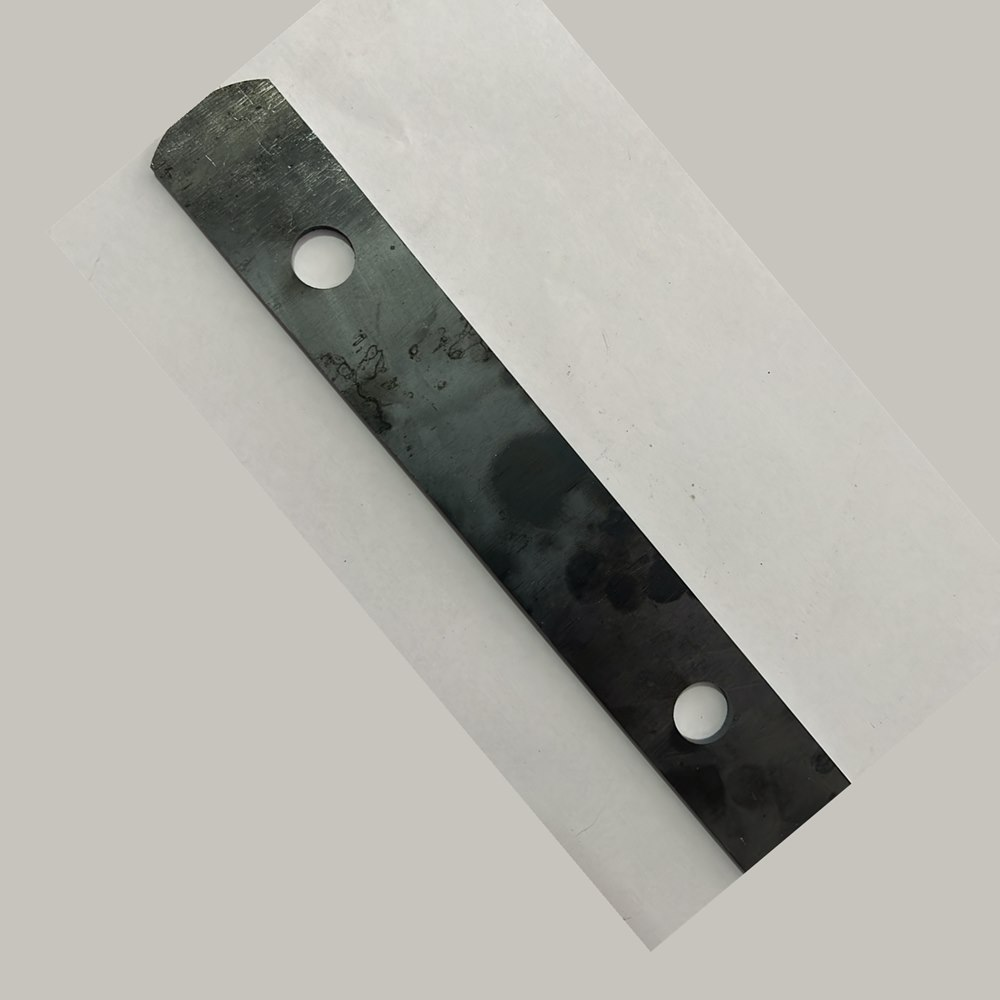
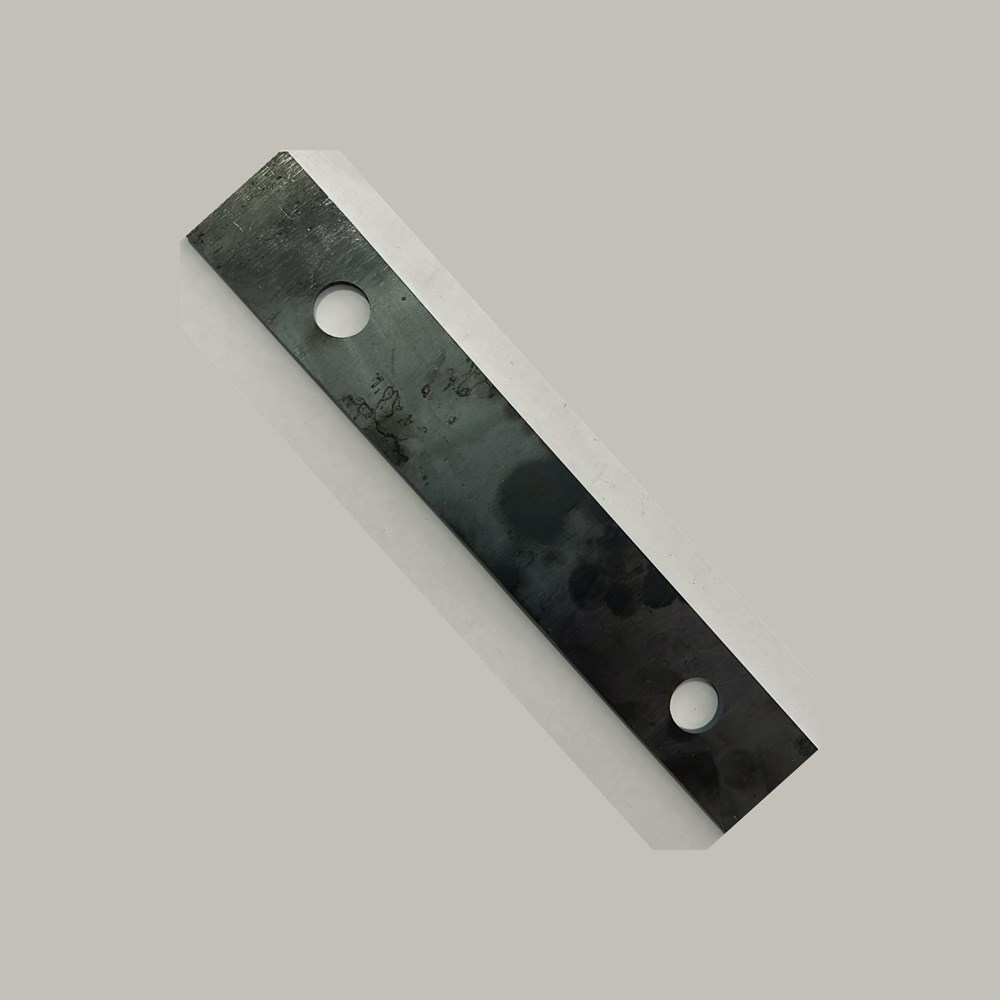
Enquadramento das pecas e ficha sem "acabamento"
O card recorta a origem quadrada em 4/3 (vitrine) e 5/4 (catalogo no
celular), tirando 12,5% e 10% de cima e de baixo. As pecas estavam
inteiras no arquivo e cortadas no site. Todas as fotos foram refeitas
com 15% de folga vertical.

- ficha do catalogo passa a mostrar SAE 1045 . TEMPERADO numa linha so:
  o tempero e caracteristica do aco, nao um acabamento
- pino 4.0 e pino conico 3.2 estavam com as imagens trocadas
- cunha padrao vinha de uma foto com a ponta fora do quadro na origem
- faqueta P10 plus, P10 alum, P10 coreana e DW33 reenquadradas

diff --git a/index.html b/index.html
@@ -153,92 +153,92 @@
 
     <div class="fam">
       <article class="fam__c reveal">
-        <span class="fam__img"><img src="assets/img/prod/pinos.jpg" alt="Pino 4.0 de laje em aço SAE 1045 temperado" width="620" height="620" loading="lazy" decoding="async"></span>
-        <span class="fam__b"><h3>Pino 4.0 (pino de laje)</h3><span class="ficha"><span><i>Material</i>SAE 1045</span><span><i>Acabamento</i>Temperado</span></span></span>
+        <span class="fam__img"><img src="assets/img/prod/pino-40.jpg" alt="Pino 4.0 de laje em aço SAE 1045 temperado" width="620" height="620" loading="lazy" decoding="async"></span>
+        <span class="fam__b"><h3>Pino 4.0 (pino de laje)</h3><span class="ficha"><span class="ficha__e">SAE 1045 <i>·</i> Temperado</span></span></span>
         <a class="fam__go" href="https://wa.me/5511932408652?text=Ol%C3%A1!%20Vim%20pelo%20site%20e%20gostaria%20de%20um%20or%C3%A7amento%20para%20*Pino%204.0%20(pino%20de%20laje)*." target="_blank" rel="noopener">Orçamento <svg viewBox="0 0 24 24" aria-hidden="true"><path d="M5 12h13m-5-5 5 5-5 5"/></svg></a>
       </article>
 
       <article class="fam__c reveal">
         <span class="fam__img"><img src="assets/img/prod/pino-conico.jpg" alt="Pino cônico 3.2 em aço SAE 1045 temperado" width="620" height="620" loading="lazy" decoding="async"></span>
-        <span class="fam__b"><h3>Pino cônico 3.2</h3><span class="ficha"><span><i>Material</i>SAE 1045</span><span><i>Acabamento</i>Temperado</span></span></span>
+        <span class="fam__b"><h3>Pino cônico 3.2</h3><span class="ficha"><span class="ficha__e">SAE 1045 <i>·</i> Temperado</span></span></span>
         <a class="fam__go" href="https://wa.me/5511932408652?text=Ol%C3%A1!%20Vim%20pelo%20site%20e%20gostaria%20de%20um%20or%C3%A7amento%20para%20*Pino%20c%C3%B4nico%203.2*." target="_blank" rel="noopener">Orçamento <svg viewBox="0 0 24 24" aria-hidden="true"><path d="M5 12h13m-5-5 5 5-5 5"/></svg></a>
       </article>
 
       <article class="fam__c reveal">
         <span class="fam__img"><img src="assets/img/prod/pino-roscado.jpg" alt="Pino roscado em aço SAE 1045 temperado" width="620" height="620" loading="lazy" decoding="async"></span>
-        <span class="fam__b"><h3>Pino roscado</h3><span class="ficha"><span><i>Material</i>SAE 1045</span><span><i>Acabamento</i>Temperado</span></span></span>
+        <span class="fam__b"><h3>Pino roscado</h3><span class="ficha"><span class="ficha__e">SAE 1045 <i>·</i> Temperado</span></span></span>
         <a class="fam__go" href="https://wa.me/5511932408652?text=Ol%C3%A1!%20Vim%20pelo%20site%20e%20gostaria%20de%20um%20or%C3%A7amento%20para%20*Pino%20roscado*." target="_blank" rel="noopener">Orçamento <svg viewBox="0 0 24 24" aria-hidden="true"><path d="M5 12h13m-5-5 5 5-5 5"/></svg></a>
       </article>
 
       <article class="fam__c reveal">
         <span class="fam__img"><img src="assets/img/prod/cunhas.jpg" alt="Cunha padrão em aço SAE 1045 temperado" width="620" height="620" loading="lazy" decoding="async"></span>
-        <span class="fam__b"><h3>Cunha padrão</h3><span class="ficha"><span><i>Material</i>SAE 1045</span><span><i>Acabamento</i>Temperado</span></span></span>
+        <span class="fam__b"><h3>Cunha padrão</h3><span class="ficha"><span class="ficha__e">SAE 1045 <i>·</i> Temperado</span></span></span>
         <a class="fam__go" href="https://wa.me/5511932408652?text=Ol%C3%A1!%20Vim%20pelo%20site%20e%20gostaria%20de%20um%20or%C3%A7amento%20para%20*Cunha%20padr%C3%A3o*." target="_blank" rel="noopener">Orçamento <svg viewBox="0 0 24 24" aria-hidden="true"><path d="M5 12h13m-5-5 5 5-5 5"/></svg></a>
       </article>
 
       <article class="fam__c reveal">
         <span class="fam__img"><img src="assets/img/prod/cunha-fina.jpg" alt="Cunha fina em aço SAE 1045 temperado" width="620" height="620" loading="lazy" decoding="async"></span>
-        <span class="fam__b"><h3>Cunha fina</h3><span class="ficha"><span><i>Material</i>SAE 1045</span><span><i>Acabamento</i>Temperado</span></span></span>
+        <span class="fam__b"><h3>Cunha fina</h3><span class="ficha"><span class="ficha__e">SAE 1045 <i>·</i> Temperado</span></span></span>
         <a class="fam__go" href="https://wa.me/5511932408652?text=Ol%C3%A1!%20Vim%20pelo%20site%20e%20gostaria%20de%20um%20or%C3%A7amento%20para%20*Cunha%20fina*." target="_blank" rel="noopener">Orçamento <svg viewBox="0 0 24 24" aria-hidden="true"><path d="M5 12h13m-5-5 5 5-5 5"/></svg></a>
       </article>
 
       <article class="fam__c reveal">
         <span class="fam__img"><img src="assets/img/prod/cunha-coreana.jpg" alt="Cunha coreana em aço SAE 1045 temperado" width="620" height="620" loading="lazy" decoding="async"></span>
-        <span class="fam__b"><h3>Cunha coreana</h3><span class="ficha"><span><i>Material</i>SAE 1045</span><span><i>Acabamento</i>Temperado</span></span></span>
+        <span class="fam__b"><h3>Cunha coreana</h3><span class="ficha"><span class="ficha__e">SAE 1045 <i>·</i> Temperado</span></span></span>
         <a class="fam__go" href="https://wa.me/5511932408652?text=Ol%C3%A1!%20Vim%20pelo%20site%20e%20gostaria%20de%20um%20or%C3%A7amento%20para%20*Cunha%20coreana*." target="_blank" rel="noopener">Orçamento <svg viewBox="0 0 24 24" aria-hidden="true"><path d="M5 12h13m-5-5 5 5-5 5"/></svg></a>
       </article>
 
       <article class="fam__c reveal">
         <span class="fam__img"><img src="assets/img/prod/faquetas.jpg" alt="Faqueta em aço carbono temperado, com dois furos" width="620" height="620" loading="lazy" decoding="async"></span>
-        <span class="fam__b"><h3>Faquetas</h3><span class="ficha"><span><i>Material</i>SAE 1045 e SAE 1070</span><span><i>Acabamento</i>Temperado</span></span></span>
+        <span class="fam__b"><h3>Faquetas</h3><span class="ficha"><span class="ficha__e">SAE 1045 e 1070 <i>·</i> Temperado</span></span></span>
         <a class="fam__go" href="https://wa.me/5511932408652?text=Ol%C3%A1!%20Vim%20pelo%20site%20e%20gostaria%20de%20um%20or%C3%A7amento%20para%20*Faquetas*." target="_blank" rel="noopener">Orçamento <svg viewBox="0 0 24 24" aria-hidden="true"><path d="M5 12h13m-5-5 5 5-5 5"/></svg></a>
       </article>
 
       <article class="fam__c reveal">
         <span class="fam__img"><img src="assets/img/prod/faqueta-p10-plus.jpg" alt="Faqueta P10 Plus em aço SAE 1045 temperado" width="620" height="620" loading="lazy" decoding="async"></span>
-        <span class="fam__b"><h3>Faqueta P10 Plus</h3><span class="ficha"><span><i>Material</i>SAE 1045</span><span><i>Acabamento</i>Temperado</span></span></span>
+        <span class="fam__b"><h3>Faqueta P10 Plus</h3><span class="ficha"><span class="ficha__e">SAE 1045 <i>·</i> Temperado</span></span></span>
         <a class="fam__go" href="https://wa.me/5511932408652?text=Ol%C3%A1!%20Vim%20pelo%20site%20e%20gostaria%20de%20um%20or%C3%A7amento%20para%20*Faqueta%20P10%20Plus*." target="_blank" rel="noopener">Orçamento <svg viewBox="0 0 24 24" aria-hidden="true"><path d="M5 12h13m-5-5 5 5-5 5"/></svg></a>
       </article>
 
       <article class="fam__c reveal">
         <span class="fam__img"><img src="assets/img/prod/faqueta-p10-alum.jpg" alt="Faqueta P10 Alum para sistema de forma em alumínio" width="620" height="620" loading="lazy" decoding="async"></span>
-        <span class="fam__b"><h3>Faqueta P10 Alum</h3><span class="ficha"><span><i>Material</i>SAE 1045</span><span><i>Acabamento</i>Temperado</span></span></span>
+        <span class="fam__b"><h3>Faqueta P10 Alum</h3><span class="ficha"><span class="ficha__e">SAE 1045 <i>·</i> Temperado</span></span></span>
         <a class="fam__go" href="https://wa.me/5511932408652?text=Ol%C3%A1!%20Vim%20pelo%20site%20e%20gostaria%20de%20um%20or%C3%A7amento%20para%20*Faqueta%20P10%20Alum*." target="_blank" rel="noopener">Orçamento <svg viewBox="0 0 24 24" aria-hidden="true"><path d="M5 12h13m-5-5 5 5-5 5"/></svg></a>
       </article>
 
       <article class="fam__c reveal">
         <span class="fam__img"><img src="assets/img/prod/faqueta-p10-coreana.jpg" alt="Faqueta P10 Coreana com três furos, em aço SAE 1045 temperado" width="620" height="620" loading="lazy" decoding="async"></span>
-        <span class="fam__b"><h3>Faqueta P10 Coreana</h3><span class="ficha"><span><i>Material</i>SAE 1045</span><span><i>Acabamento</i>Temperado</span></span></span>
+        <span class="fam__b"><h3>Faqueta P10 Coreana</h3><span class="ficha"><span class="ficha__e">SAE 1045 <i>·</i> Temperado</span></span></span>
         <a class="fam__go" href="https://wa.me/5511932408652?text=Ol%C3%A1!%20Vim%20pelo%20site%20e%20gostaria%20de%20um%20or%C3%A7amento%20para%20*Faqueta%20P10%20Coreana*." target="_blank" rel="noopener">Orçamento <svg viewBox="0 0 24 24" aria-hidden="true"><path d="M5 12h13m-5-5 5 5-5 5"/></svg></a>
       </article>
 
       <article class="fam__c reveal">
         <span class="fam__img"><img src="assets/img/prod/saca-faqueta.jpg" alt="Saca faqueta, ferramenta de desforma" width="620" height="620" loading="lazy" decoding="async"></span>
-        <span class="fam__b"><h3>Saca faqueta</h3><span class="ficha"><span class="ficha__d">Ferramenta de desforma</span></span></span>
+        <span class="fam__b"><h3>Saca faqueta</h3><span class="ficha"><span class="ficha__d">Ferramenta de desforma</span><span class="ficha__e">SAE 1020 <i>·</i> 22 mm</span></span></span>
         <a class="fam__go" href="https://wa.me/5511932408652?text=Ol%C3%A1!%20Vim%20pelo%20site%20e%20gostaria%20de%20um%20or%C3%A7amento%20para%20*Saca%20faqueta*." target="_blank" rel="noopener">Orçamento <svg viewBox="0 0 24 24" aria-hidden="true"><path d="M5 12h13m-5-5 5 5-5 5"/></svg></a>
       </article>
 
       <article class="fam__c reveal">
         <span class="fam__img"><img src="assets/img/prod/desformador.jpg" alt="Desformador em haste, ferramenta de desforma" width="620" height="620" loading="lazy" decoding="async"></span>
-        <span class="fam__b"><h3>Desformador</h3><span class="ficha"><span class="ficha__d">Ferramenta de desforma</span><span><i>Material</i>SAE 1020</span><span><i>Medida</i>22 mm</span></span></span>
+        <span class="fam__b"><h3>Desformador</h3><span class="ficha"><span class="ficha__d">Ferramenta de desforma</span><span class="ficha__e">SAE 1020 <i>·</i> 22 mm</span></span></span>
         <a class="fam__go" href="https://wa.me/5511932408652?text=Ol%C3%A1!%20Vim%20pelo%20site%20e%20gostaria%20de%20um%20or%C3%A7amento%20para%20*Desformador*." target="_blank" rel="noopener">Orçamento <svg viewBox="0 0 24 24" aria-hidden="true"><path d="M5 12h13m-5-5 5 5-5 5"/></svg></a>
       </article>
 
       <article class="fam__c reveal">
         <span class="fam__img"><img src="assets/img/prod/alinhador-duplo.jpg" alt="Alinhador duplo em perfil metálico" width="620" height="620" loading="lazy" decoding="async"></span>
-        <span class="fam__b"><h3>Alinhador duplo</h3><span class="ficha"><span><i>Material</i>SAE 1020</span><span><i>Espessura</i>3 mm</span></span></span>
+        <span class="fam__b"><h3>Alinhador duplo</h3><span class="ficha"><span class="ficha__e">SAE 1020 <i>·</i> 3 mm</span></span></span>
         <a class="fam__go" href="https://wa.me/5511932408652?text=Ol%C3%A1!%20Vim%20pelo%20site%20e%20gostaria%20de%20um%20or%C3%A7amento%20para%20*Alinhador%20duplo*." target="_blank" rel="noopener">Orçamento <svg viewBox="0 0 24 24" aria-hidden="true"><path d="M5 12h13m-5-5 5 5-5 5"/></svg></a>
       </article>
 
       <article class="fam__c reveal">
         <span class="fam__img"><img src="assets/img/prod/porta-alinhador.jpg" alt="Porta alinhador angular para sistemas Alum e Plus" width="620" height="620" loading="lazy" decoding="async"></span>
-        <span class="fam__b"><h3>Porta alinhador angular</h3><span class="ficha"><span><i>Modelo</i>Alum e Plus</span><span><i>Aço</i>SAE 1020</span></span></span>
+        <span class="fam__b"><h3>Porta alinhador angular</h3><span class="ficha"><span class="ficha__e">SAE 1020 <i>·</i> Alum e Plus</span></span></span>
         <a class="fam__go" href="https://wa.me/5511932408652?text=Ol%C3%A1!%20Vim%20pelo%20site%20e%20gostaria%20de%20um%20or%C3%A7amento%20para%20*Porta%20alinhador%20angular*." target="_blank" rel="noopener">Orçamento <svg viewBox="0 0 24 24" aria-hidden="true"><path d="M5 12h13m-5-5 5 5-5 5"/></svg></a>
       </article>
 
       <article class="fam__c reveal">
         <span class="fam__img"><img src="assets/img/prod/porta-alinhador-rosca.jpg" alt="Porta alinhador com haste roscada, bitolas 1/2 e 5/8" width="620" height="620" loading="lazy" decoding="async"></span>
-        <span class="fam__b"><h3>Porta alinhador 1/2 e 5/8</h3><span class="ficha"><span><i>Material</i>SAE 1020</span><span><i>Bitola</i>1/2 e 5/8 pol</span></span></span>
+        <span class="fam__b"><h3>Porta alinhador 1/2 e 5/8</h3><span class="ficha"><span class="ficha__e">SAE 1020 <i>·</i> 1/2 e 5/8 pol</span></span></span>
         <a class="fam__go" href="https://wa.me/5511932408652?text=Ol%C3%A1!%20Vim%20pelo%20site%20e%20gostaria%20de%20um%20or%C3%A7amento%20para%20*Porta%20alinhador%201%2F2%20e%205%2F8*." target="_blank" rel="noopener">Orçamento <svg viewBox="0 0 24 24" aria-hidden="true"><path d="M5 12h13m-5-5 5 5-5 5"/></svg></a>
       </article>
 
@@ -274,7 +274,7 @@
 
       <article class="fam__c reveal">
         <span class="fam__img"><img src="assets/img/prod/cone-p10.jpg" alt="Cone P10 em aço SAE 1020, bitolas 1/2 e 5/8" width="620" height="620" loading="lazy" decoding="async"></span>
-        <span class="fam__b"><h3>Cone P10</h3><span class="ficha"><span><i>Material</i>SAE 1020</span><span><i>Bitola</i>1/2 e 5/8 pol</span></span></span>
+        <span class="fam__b"><h3>Cone P10</h3><span class="ficha"><span class="ficha__e">SAE 1020 <i>·</i> 1/2 e 5/8 pol</span></span></span>
         <a class="fam__go" href="https://wa.me/5511932408652?text=Ol%C3%A1!%20Vim%20pelo%20site%20e%20gostaria%20de%20um%20or%C3%A7amento%20para%20*Cone%20P10*." target="_blank" rel="noopener">Orçamento <svg viewBox="0 0 24 24" aria-hidden="true"><path d="M5 12h13m-5-5 5 5-5 5"/></svg></a>
       </article>
 
@@ -335,7 +335,7 @@
 
     <div class="pc__grid">
       <article class="pc__c reveal">
-        <div class="pc__img"><img src="assets/img/prod/pinos.jpg" alt="Pino 4.0 de laje em aço SAE 1045 temperado" width="620" height="620" loading="lazy" decoding="async"></div>
+        <div class="pc__img"><img src="assets/img/prod/pino-40.jpg" alt="Pino 4.0 de laje em aço SAE 1045 temperado" width="620" height="620" loading="lazy" decoding="async"></div>
         <h3>Pino 4.0 (pino de laje)</h3>
         <p class="spec">SAE 1045 <i>·</i> Temperado</p>
       </article>

diff --git a/assets/css/style.css b/assets/css/style.css
@@ -462,6 +462,9 @@ html{scrollbar-color:var(--line-hi) var(--ink-950);scrollbar-width:thin}
   text-transform:uppercase;color:var(--steel-300);text-wrap:pretty}
 .ficha i{font-style:normal;color:var(--steel-500);margin-right:.42em}
 .ficha__d{color:var(--steel-400)}
+/* liga e tempero na mesma linha, separados como no card da vitrine:
+   temperado e caracteristica do aco, nao um rotulo a parte */
+.ficha__e i{color:var(--fire-600);margin:0;padding:0 .35em}
 .fam__c h3{font:800 1rem/1.1 var(--disp);letter-spacing:-.02em;text-transform:uppercase;
   margin-bottom:.28rem}
 .fam__go{display:inline-flex;align-items:center;gap:.45rem;margin-top:auto;
